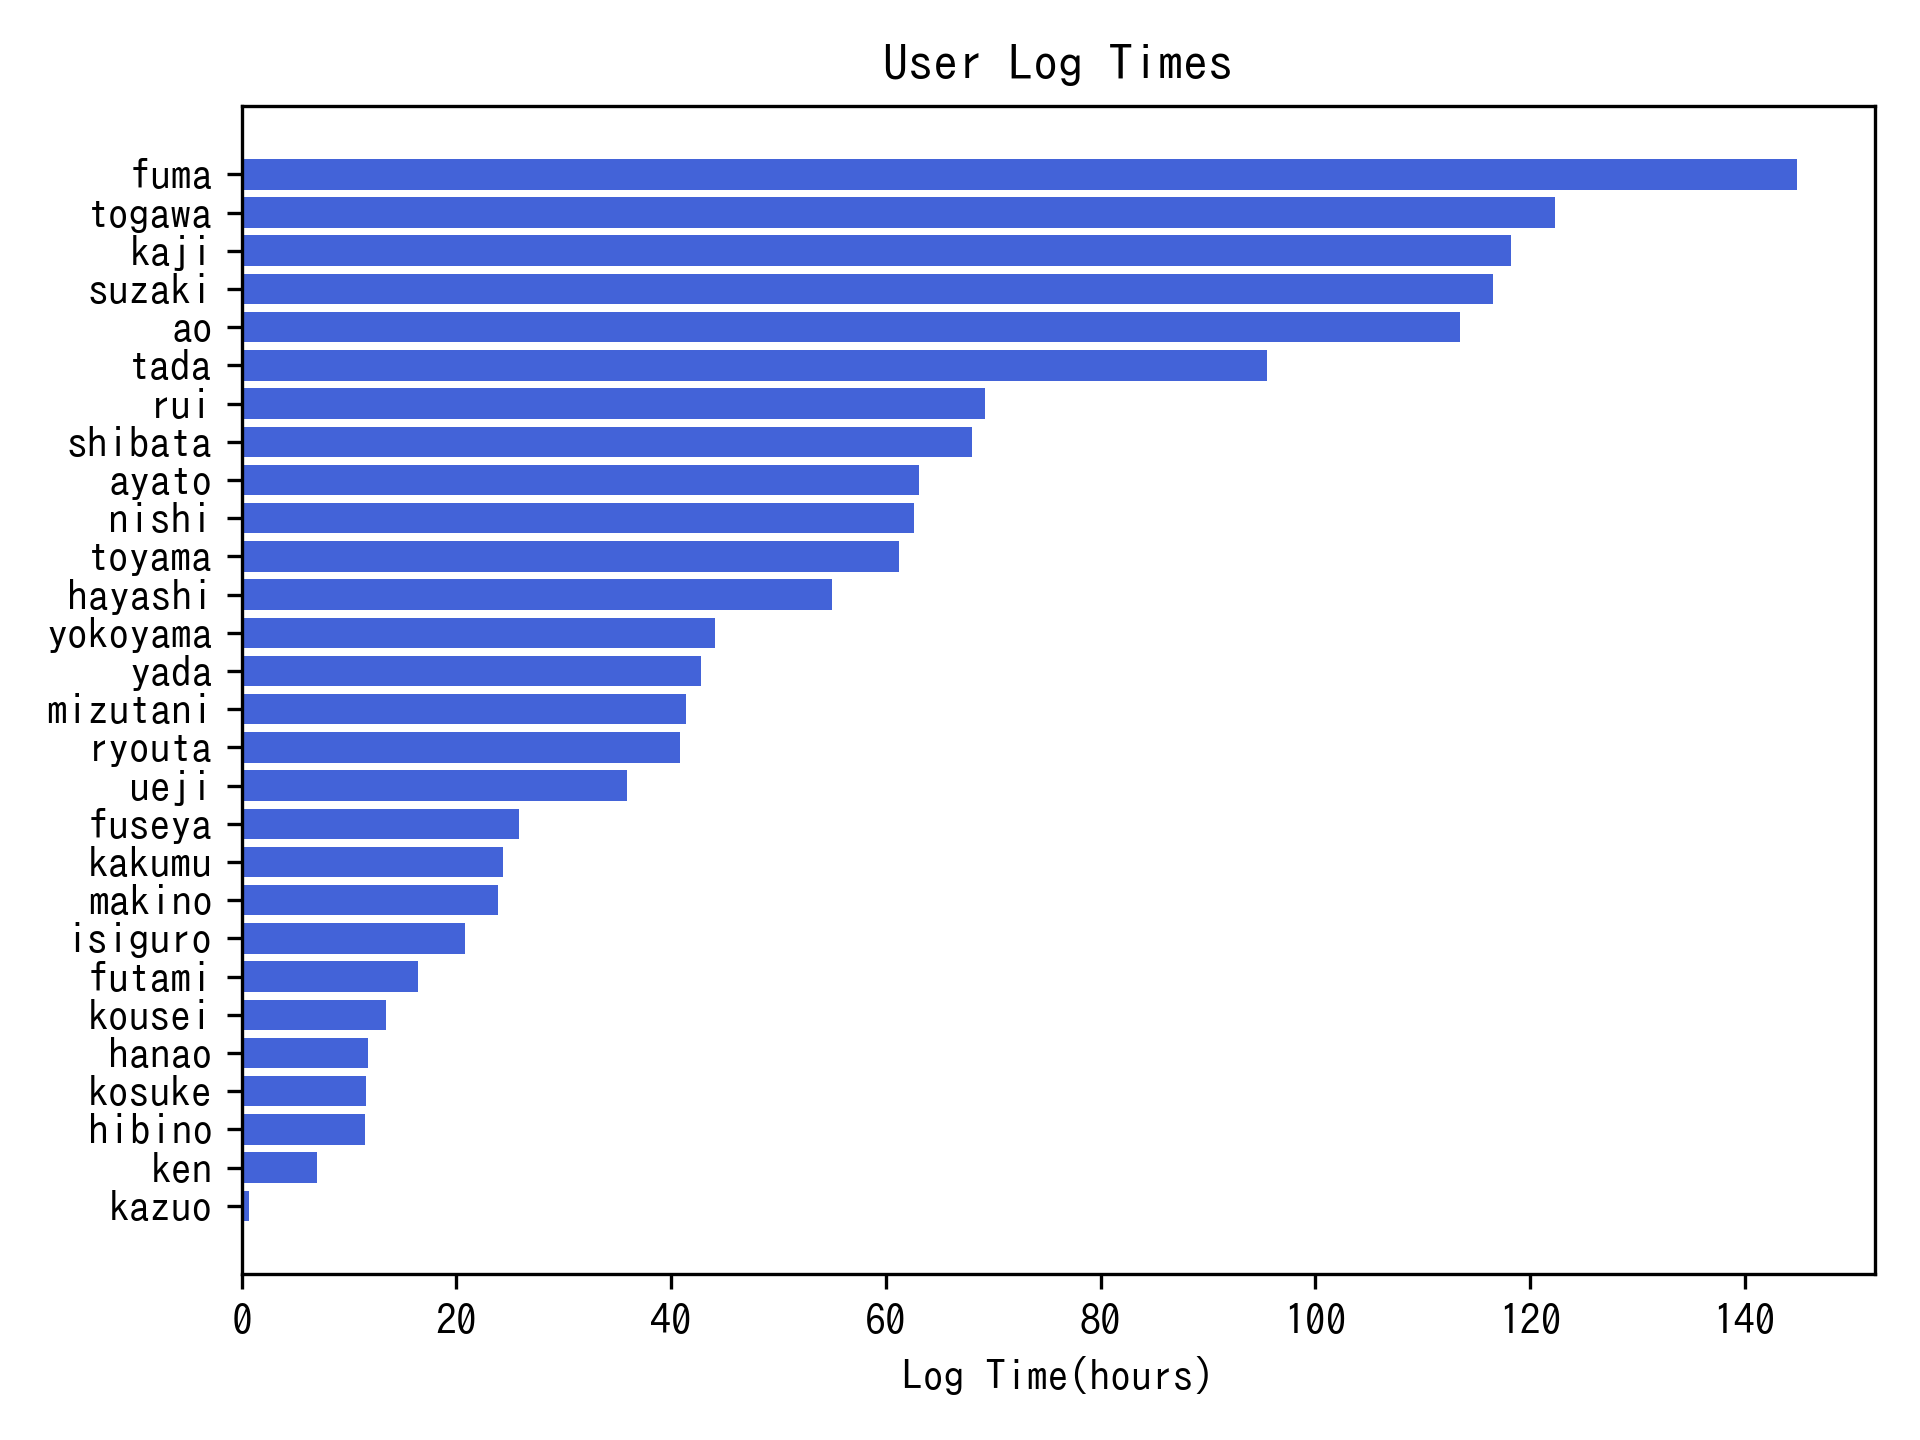
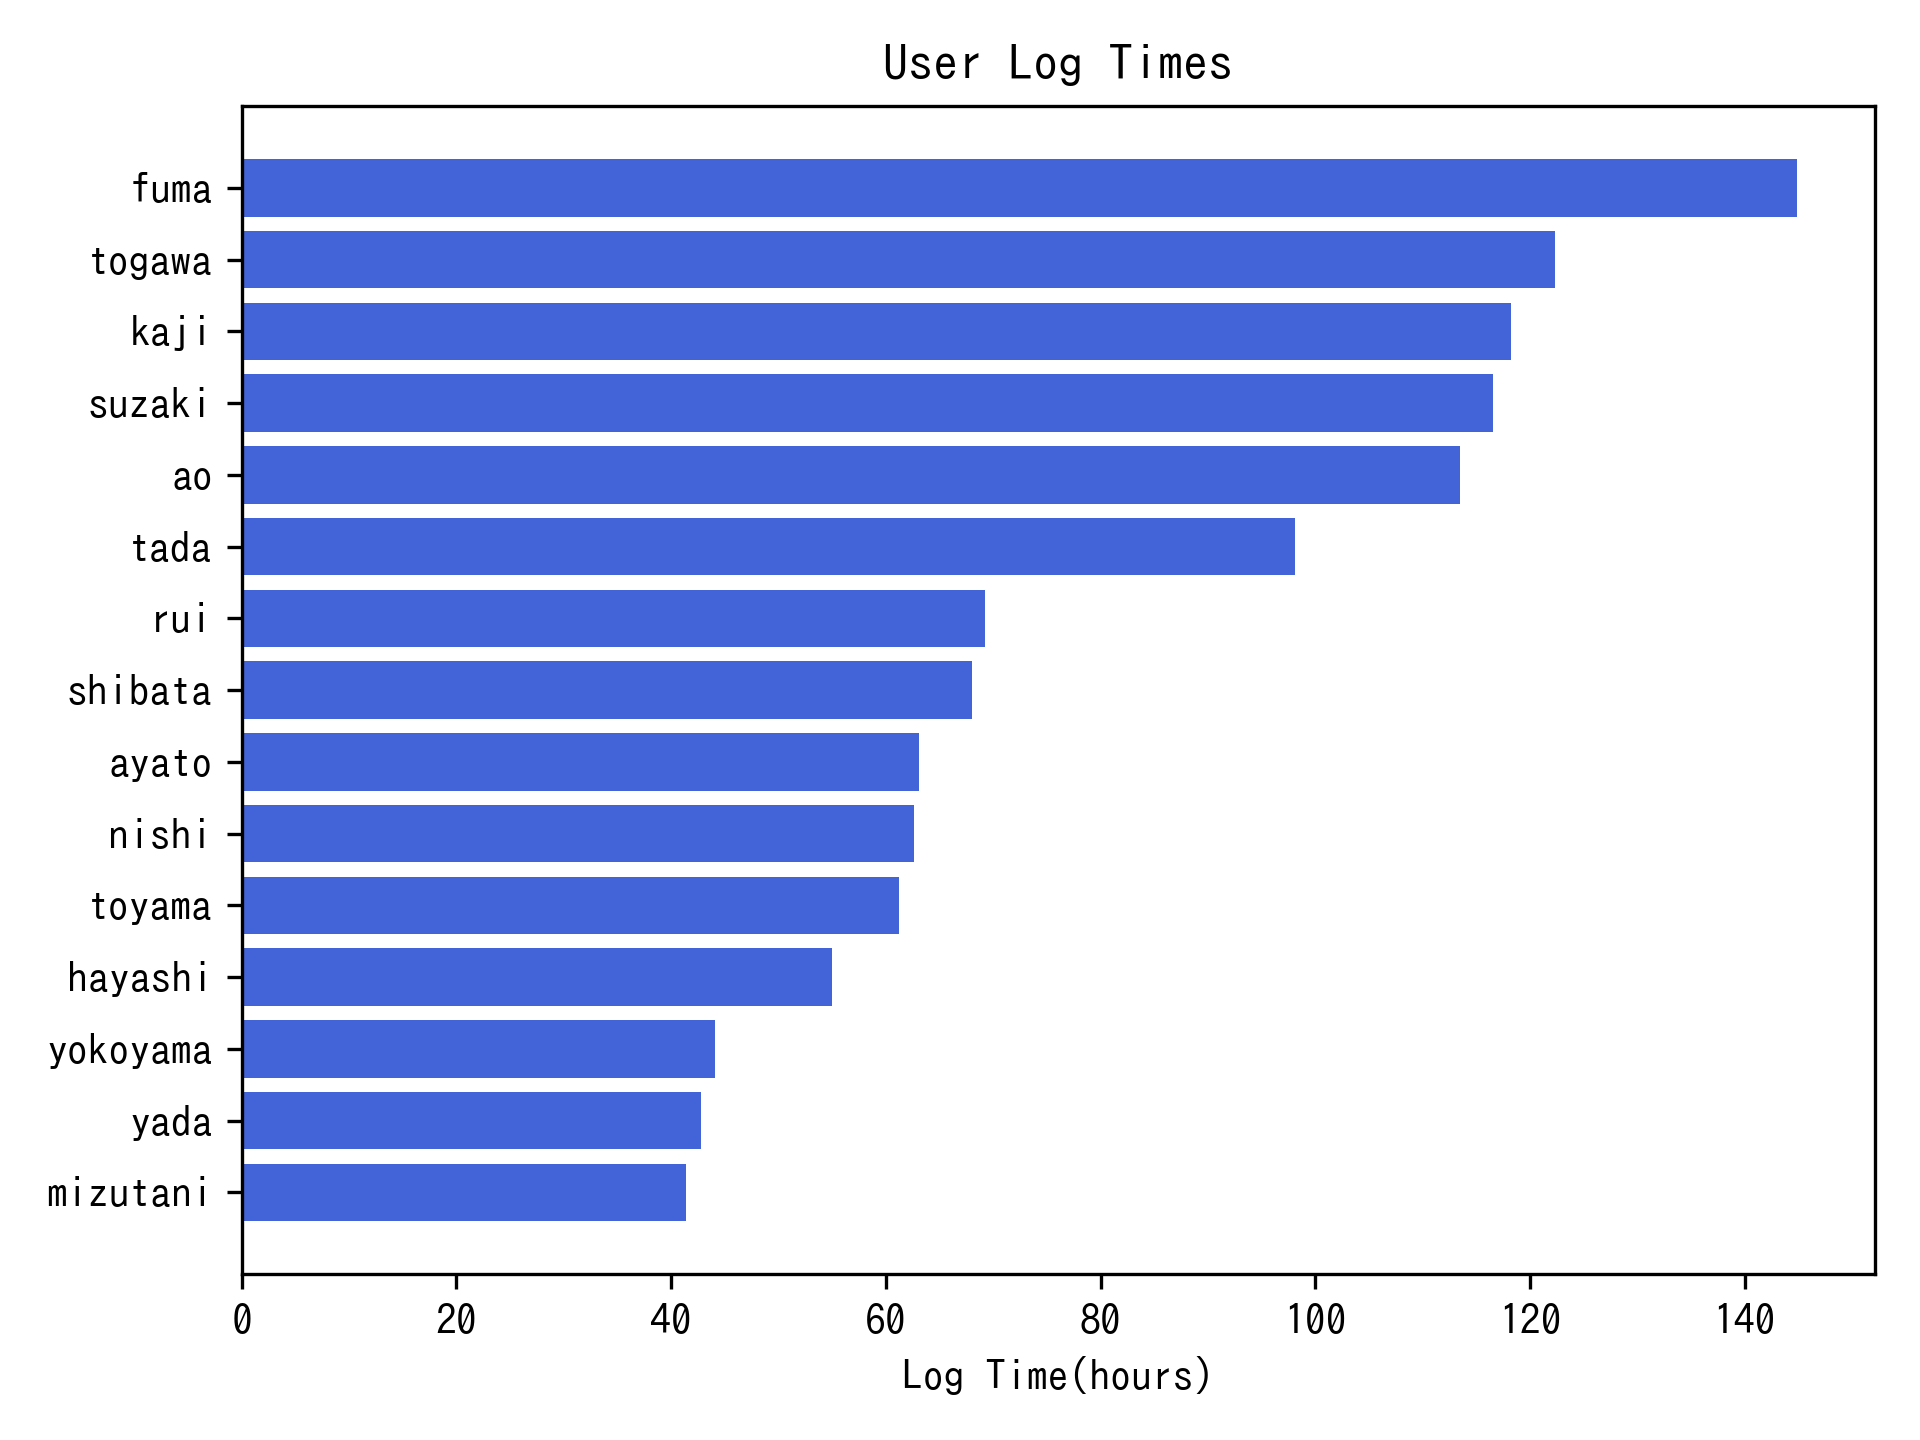
refactor:

Changed region(s): [[0.0312, 0.0938, 0.9375, 0.875]]

diff --git a/python/app/bot.py b/python/app/bot.py
@@ -1,0 +1,32 @@
+
+
+
+# from slack_sdk import WebClient
+
+# # 初期化
+# client = WebClient(token=os.environ.get('SLACK_API_TOKEN'))
+
+# # メッセージ履歴を取得
+# response = client.conversations_history(
+#   channel=os.environ.get('SLACK_CHANNEL'),
+# )
+
+# # メッセージ一覧を取得し、それぞれのメッセージからタイムスタンプを取得
+# for message in response['messages']:
+#   print(f"Timestamp: {message['ts']}, Text: {message['text']}")
+
+
+from slack_sdk import WebClient
+import os
+
+slack_token = os.environ.get('SLACK_API_TOKEN')
+client = WebClient(token=slack_token)
+
+channel_id = os.environ.get('SLACK_CHANNEL') 
+message_ts = '1476746830.000083'
+
+response = client.chat_delete(
+  channel=channel_id,
+  ts=message_ts
+)
+

diff --git a/python/app/chart.py b/python/app/chart.py
@@ -52,6 +52,10 @@ def save_users_log_time_bar_chart(log_times: dict):
     user_names = [x[0] for x in sorted_log_times]
     log_times = [x[1] for x in sorted_log_times]
 
+
+    user_names=user_names[:15]
+    log_times=log_times[:15]
+
     # 棒グラフを描画
     plt.barh(user_names[::-1], log_times[::-1], color='#4363d8')
 

diff --git a/python/app/main_practice.py b/python/app/main_practice.py
@@ -18,4 +18,3 @@ if __name__ == '__main__':
     message=f'滞在時間ランキング\n1位 {first_three_keys[0]}さん\n2位 {first_three_keys[1]}さん\n3位 {first_three_keys[2]}さん\nおめでとうございます!'
     image_path=chart.save_users_log_time_bar_chart(log_times)
     upload.post_slack(image_path,message)
-
